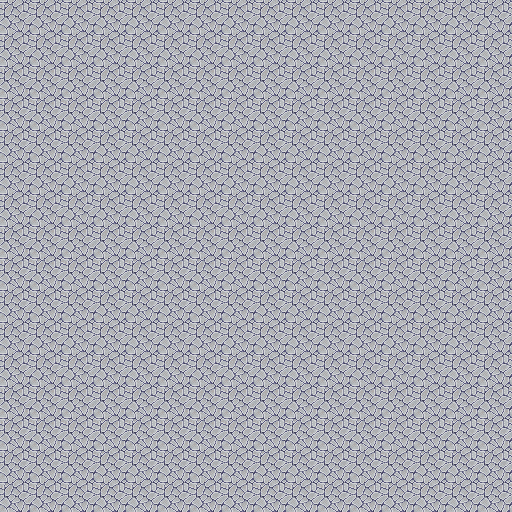
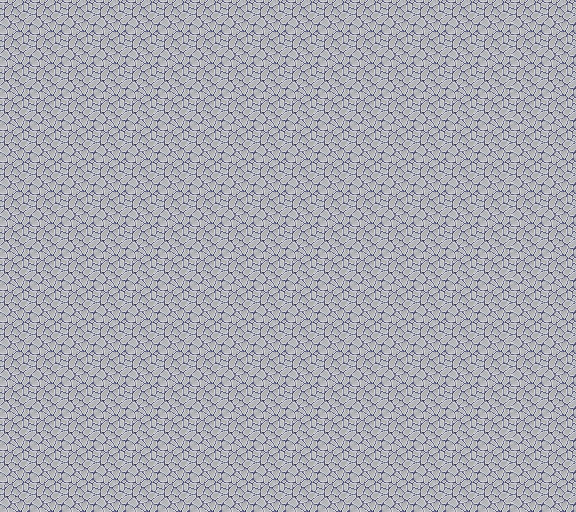
背景無限スクロール機能追加

diff --git a/app/index_test.js b/app/index_test.js
@@ -31,13 +31,14 @@ function init(){
         context,
         KeyConfig.ASDW
     ));
-    /*const audioSource = scene.addGameObject(Prefabs.spriteObject(
-        Vector2.zero,
-        context,
-        BACK_SPRITE
-    ));*/
     camera.camera.updateProcess = function(){
         camera.transform.position.set(player.transform.position);
+    };
+    background.transform.updateProcess = function(){
+        background.transform.position.setValue(
+            player.transform.position.x - player.transform.position.x % 32,
+            player.transform.position.y - player.transform.position.y % 32
+        );
     };
 
     scene.addGameObject(Prefabs.audioPlayer(
@@ -64,10 +65,12 @@ function init(){
     ));
 
     var time = 0;
+    var t = 0;
     setInterval(function(){
         context.clearRect(0,0,width,height);
         scene.update(1/fps);
-        //camera.camera.zoomRate = 1.5+Math.cos(time);
+        //camera.camera.zoomRate = 1.5+Math.cos(t);
+        t += 0.05;
         time += 1000/fps;
         if(time > 500){
             audioController.playVideo();

diff --git a/app/SceneModule/basicObjects.js b/app/SceneModule/basicObjects.js
@@ -66,6 +66,7 @@ class GameObject{
         musicObject.gameObject = this;
     }
     update(dt){
+        if(this.transform != null) this.transform.update(dt);
         if(this.controller != null) this.controller.update(dt);
         if(this.animator != null) this.animator.update(dt);
         //if(this.renderer != null) this.renderer.update(dt);

diff --git a/app/SceneModule/utils.js b/app/SceneModule/utils.js
@@ -82,6 +82,11 @@ class Vector2{
         this.y = v.y;
         return this;
     }
+    setValue(x,y){
+        this.x = x;
+        this.y = y;
+        return this;
+    }
     add(v){
         this.x += v.x;
         this.y += v.y;

diff --git a/app/SceneModule/prefabs.js b/app/SceneModule/prefabs.js
@@ -6,7 +6,7 @@ const CHARA_SPRITE_1 = new Sprite(
 );
 const BACK_SPRITE = new Sprite(
     "background.png",
-    512, 512,
+    576, 512,
     1, 1,
     new Vector2(0.5,0.5)
 );
